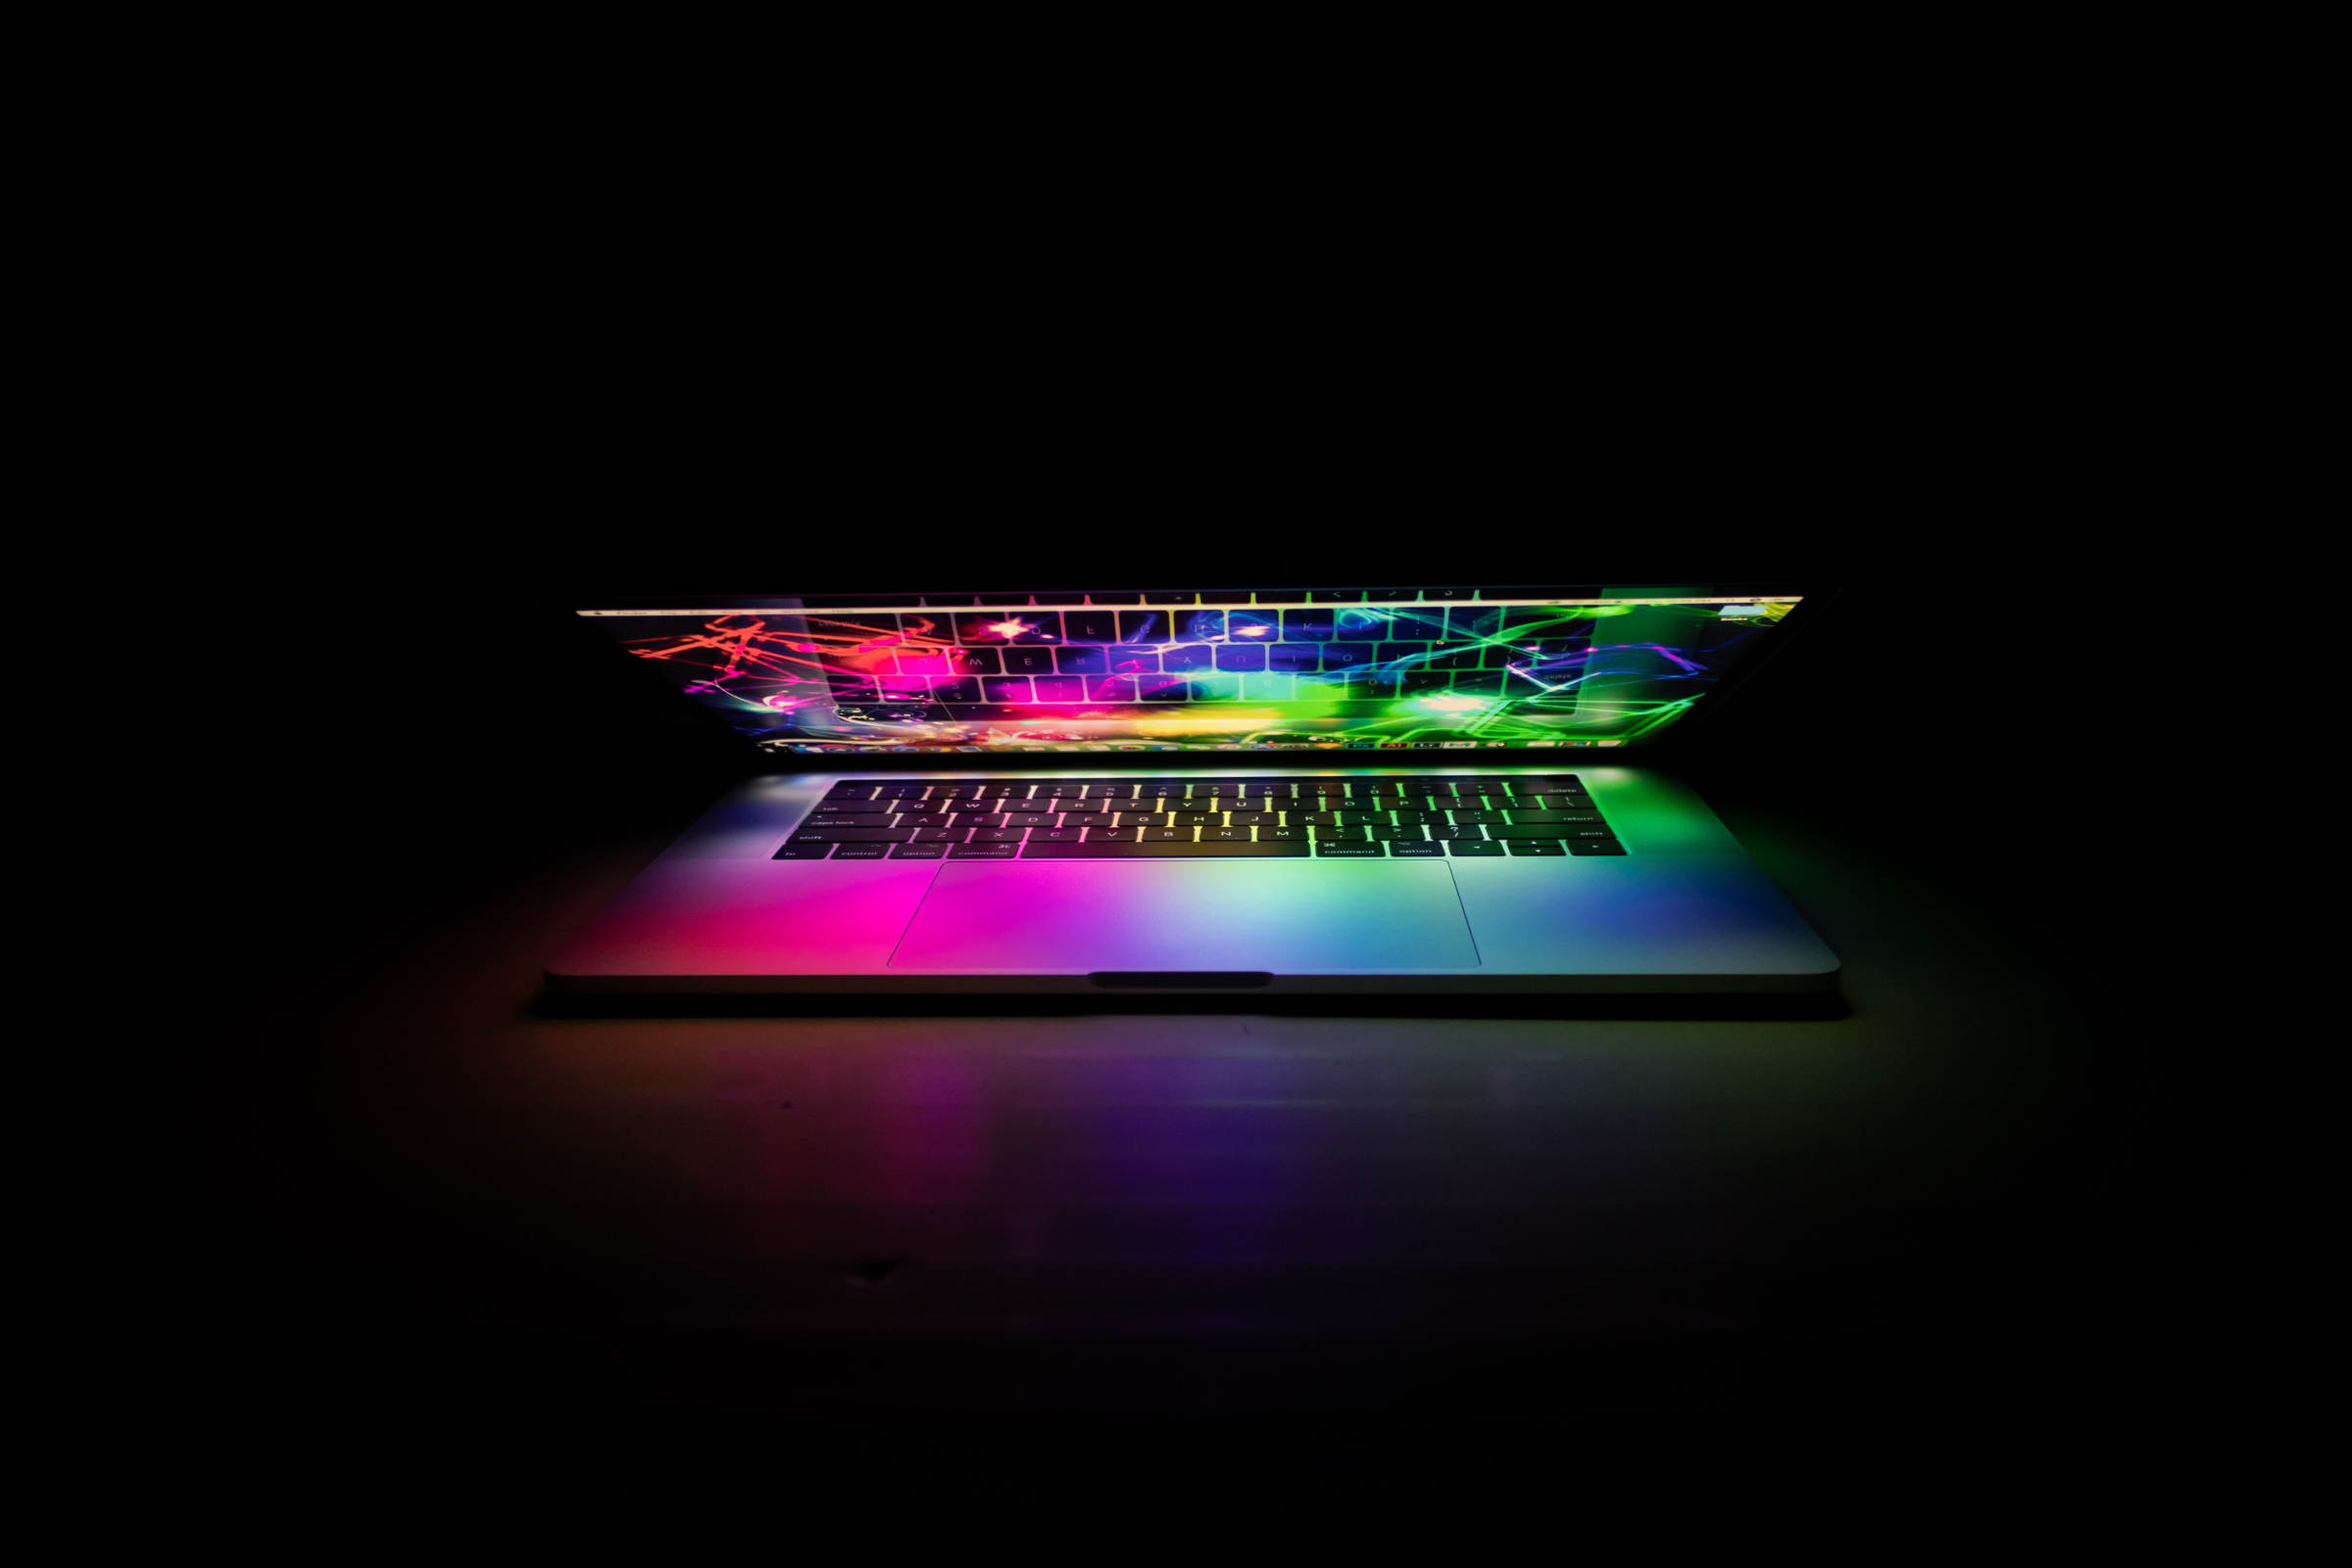
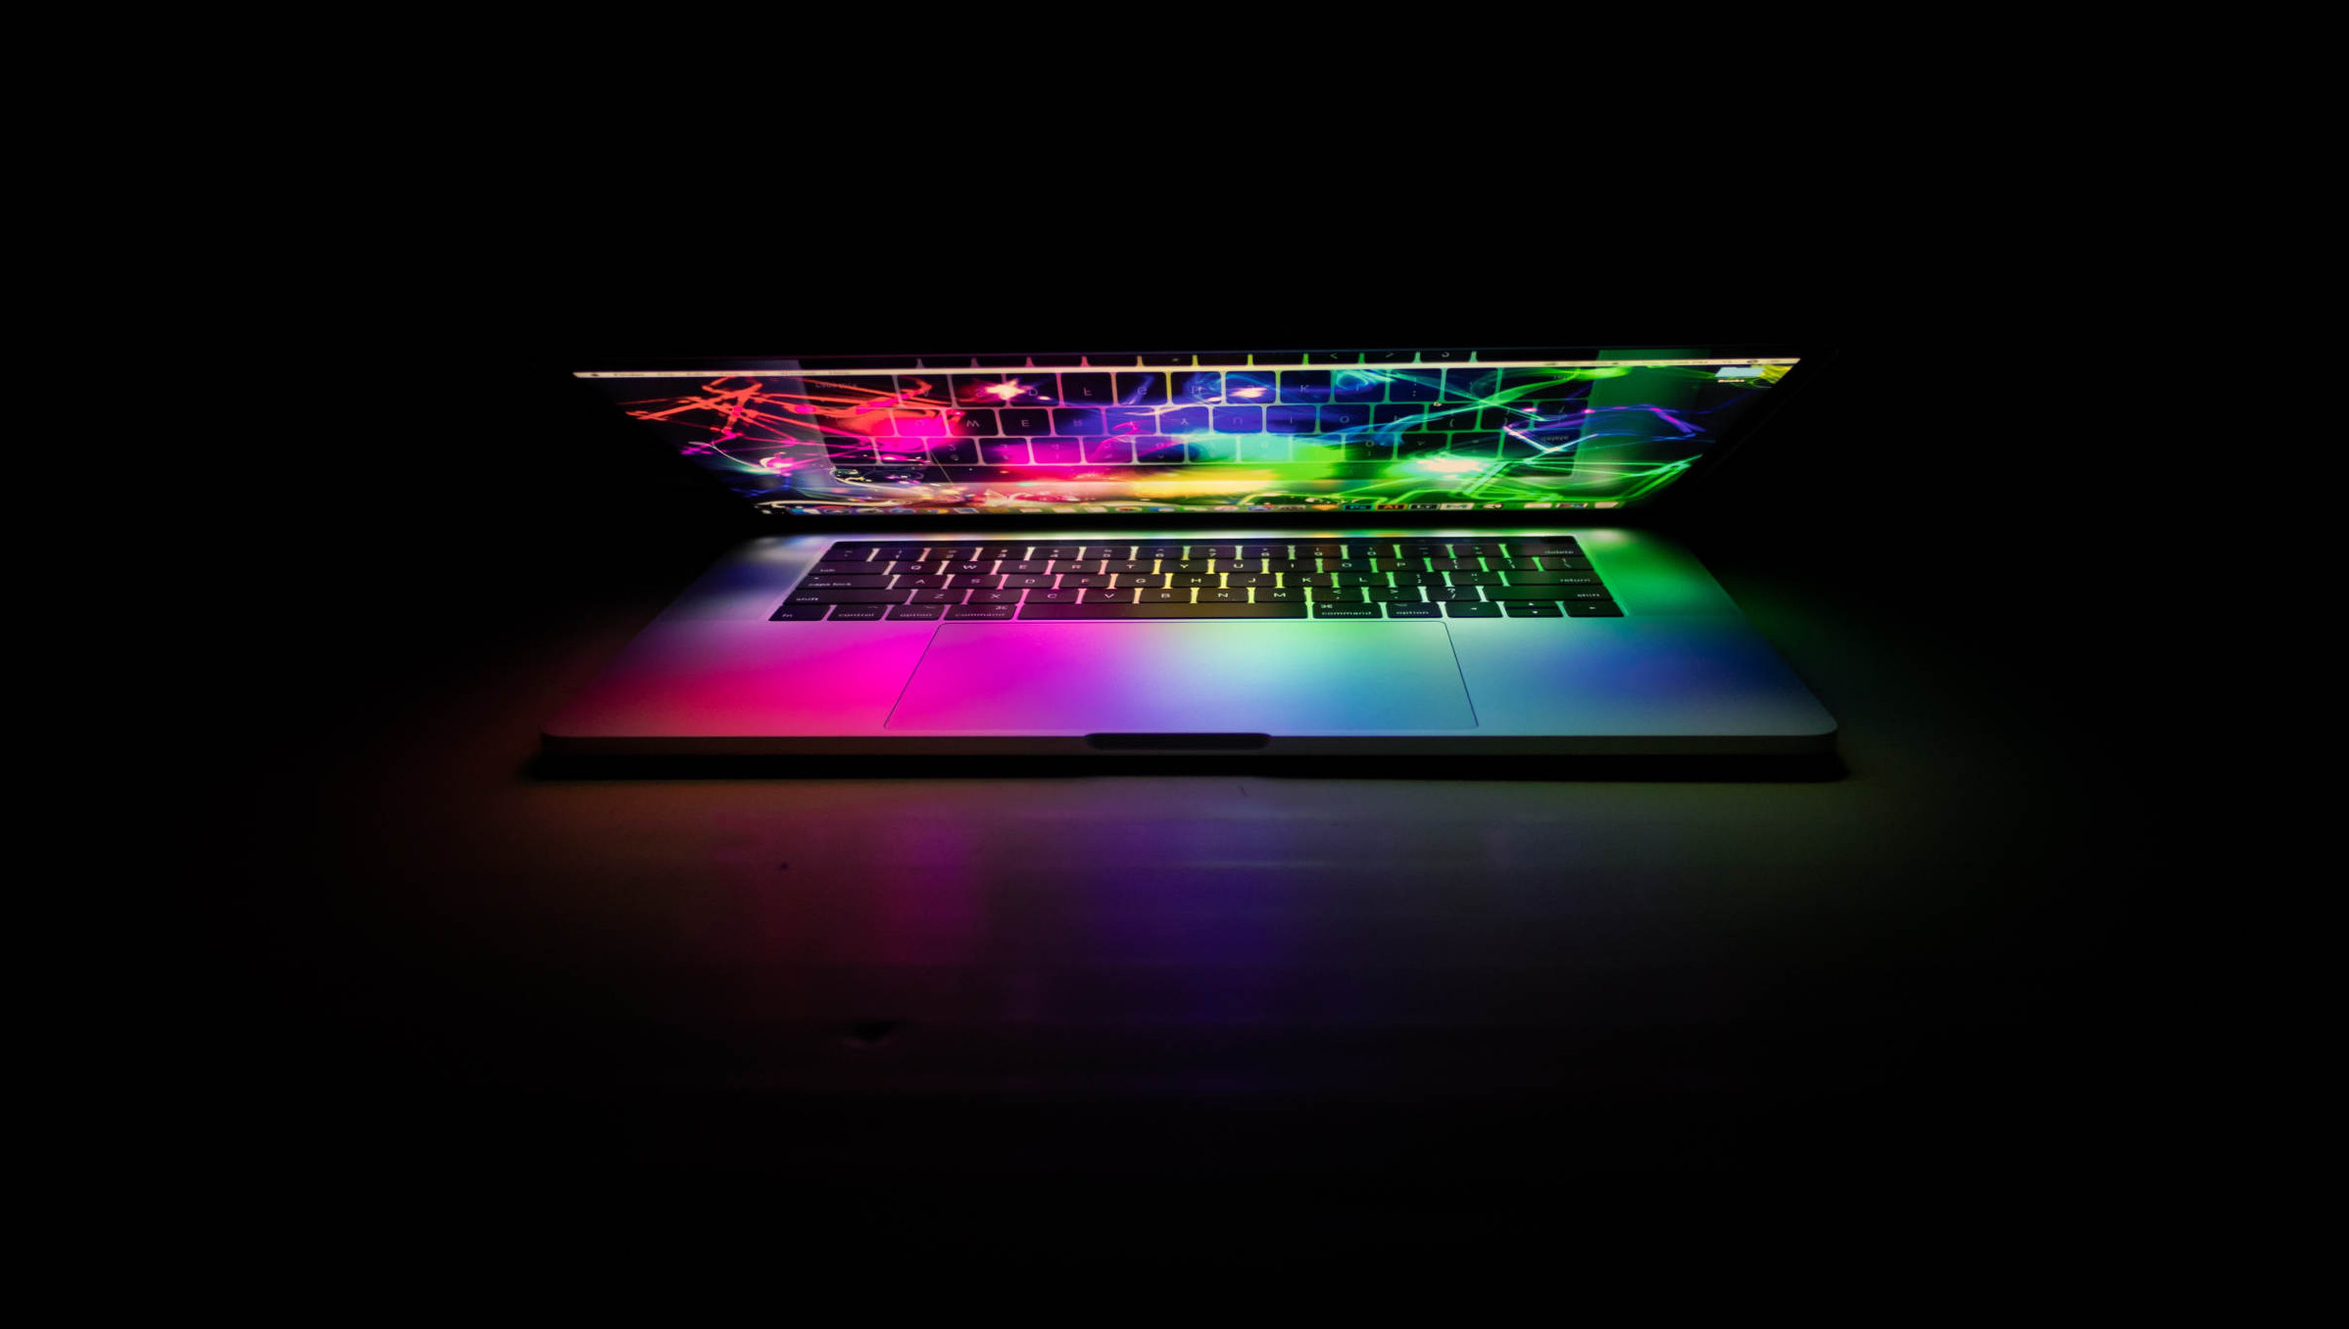
Created header, form

Changed region(s): [[0.1852, 0.2476, 0.8027, 0.8047]]

diff --git a/index.html b/index.html
@@ -4,20 +4,43 @@
     <meta charset="UTF-8">
     <meta name="viewport" content="width=device-width, initial-scale=1.0">
     <meta http-equiv="X-UA-Compatible" content="ie=edge">
-    <link rel="stylesheet" href="bulma.css">
+    <link rel="stylesheet" href="https://use.fontawesome.com/releases/v5.1.0/css/all.css" integrity="sha384-lKuwvrZot6UHsBSfcMvOkWwlCMgc0TaWr+30HWe3a4ltaBwTZhyTEggF5tJv8tbt" crossorigin="anonymous">
     <link rel="stylesheet" href="styles.css">
     <title>Landing Page</title>
 </head>
 <body>
-   <section class="hero is-fullheight">
-
-   </section> 
-   <footer>
-        <a href="https://bulma.io">
-            <img src="made-with-bulma.png" alt="Made with Bulma" width="128" height="24">
-        </a>
-    <p>Photo by <a style="background-color:black;color:white;text-decoration:none;padding:4px 6px;font-family:-apple-system, BlinkMacSystemFont, &quot;San Francisco&quot;, &quot;Helvetica Neue&quot;, Helvetica, Ubuntu, Roboto, Noto, &quot;Segoe UI&quot;, Arial, sans-serif;font-size:12px;font-weight:bold;line-height:1.2;display:inline-block;border-radius:3px" href="https://unsplash.com/@dhaval?utm_medium=referral&amp;utm_campaign=photographer-credit&amp;utm_content=creditBadge" target="_blank" rel="noopener noreferrer" title="Download free do whatever you want high-resolution photos from Dhaval Parmar"><span style="display:inline-block;padding:2px 3px"><svg xmlns="http://www.w3.org/2000/svg" style="height:12px;width:auto;position:relative;vertical-align:middle;top:-1px;fill:white" viewBox="0 0 32 32"><title>unsplash-logo</title><path d="M20.8 18.1c0 2.7-2.2 4.8-4.8 4.8s-4.8-2.1-4.8-4.8c0-2.7 2.2-4.8 4.8-4.8 2.7.1 4.8 2.2 4.8 4.8zm11.2-7.4v14.9c0 2.3-1.9 4.3-4.3 4.3h-23.4c-2.4 0-4.3-1.9-4.3-4.3v-15c0-2.3 1.9-4.3 4.3-4.3h3.7l.8-2.3c.4-1.1 1.7-2 2.9-2h8.6c1.2 0 2.5.9 2.9 2l.8 2.4h3.7c2.4 0 4.3 1.9 4.3 4.3zm-8.6 7.5c0-4.1-3.3-7.5-7.5-7.5-4.1 0-7.5 3.4-7.5 7.5s3.3 7.5 7.5 7.5c4.2-.1 7.5-3.4 7.5-7.5z"></path></svg></span><span style="display:inline-block;padding:2px 3px">Dhaval Parmar</span></a></p>
-   </footer>
-   <script src="https://cdn.freecodecamp.org/testable-projects-fcc/v1/bundle.js"></script>
+    <header id="header">
+        <nav id="nav-bar">
+            <span id="navbar-toggle">
+                <i class="fa fa-bars"></i>
+            </span>
+            <a href="#"><img id="header-img" src="http://sp-nautika-rent-a-boat.hr/freecodecamp/logo.png" class="left" height="70" alt="brand logo"></a>
+            <ul id="main-nav">
+                <li><a class="nav-link" href="#header">Home</a></li>
+                <li><a class="nav-link" href="#info">Info</a></li>
+                <li><a class="nav-link" href="#contact">Contact</a></li>
+            </ul>
+        </nav>
+    </header>
+    <section id="info">
+            <video id="video" width="320" height="240" controls>
+                <source src="movie.mp4" type="video/mp4">
+                <source src="movie.ogg" type="video/ogg">
+                Your browser does not support the video tag.
+            </video>
+    </section>
+    <section id="contact">
+        <form id="form" action="https://www.freecodecamp.com/email-submit">
+            <div class="input-add-on">
+                <input id="email" class="input-add-on_field" type="email" name="email" placeholder="Enter your email...">
+                <input id="submit" class="input-add-on_item" type="submit" name="submit">
+            </div>
+        </form>
+        <footer>
+            <p>Copyright 2018, Bogus Laptops - by Marko Koron</p>
+        </footer>
+    </section>
+    <script src="scripts.js"></script>
+    <script src="https://gitcdn.link/repo/freeCodeCamp/testable-projects-fcc/master/build/bundle.js"></script>   
 </body>
 </html>

diff --git a/styles.css b/styles.css
@@ -1,3 +1,156 @@
-.hero {
-    background: black url('laptop.jpg') center / cover;
+* {
+    box-sizing: border-box;
+    margin: 0;
+    padding: 0;
 }
+
+body {
+    background-color: black;
+    color: wheat;
+}
+
+#header {
+    background-image: url('laptop.jpg');
+    background-position: center center;
+    background-repeat:  no-repeat;
+    background-size:  cover;
+    background-color: black;
+    height: 100vh;
+    width: 100%;
+}
+
+.left {
+    justify-content: flex-start;
+}
+
+#header-img {
+    display: inline-block;
+    margin-top: .3em;
+    margin-left: .5em; 
+}
+
+#main-nav {
+    text-align: center;
+    display: none;
+    flex-direction: column;  
+}
+
+#main-nav li {
+    list-style-type: none;
+    text-align: center;
+    margin: .3em auto;
+}
+
+#nav-bar {
+    position: fixed;
+    width: 100%;
+    background-image: linear-gradient(90deg, rgba(109, 36, 91, .25) 0%, rgba(1, 92, 50, .32) 100%);
+}
+
+.nav-link, #header-img {
+    text-decoration: none;
+    color: rgba(255,255,255,0.8);
+}
+
+#navbar-toggle {
+    position: absolute;
+    top: 10px;
+    right: 20px;
+    cursor: pointer; 
+    color: rgba(255,255,255,0.8);
+    font-size: 2em;
+  }
+  
+  #navbar-toggle:hover {
+    color: rgba(255, 255, 255, 1);
+  }
+
+#form {
+    width: 60%;
+    min-height: 50px;
+    height: auto;
+    border-radius: 5px;
+    margin: 2% auto;
+    padding: 2%;
+    background-image: linear-gradient(-225deg, rgba(255, 64, 208, .7) 50%, rgba(8, 251, 139, .7) 50%);
+}
+
+  .input-add-on {
+    display: flex;
+    justify-content: center;
+    margin: 0 auto;
+    width: 3em;
+  }
+  
+  .input-add-on_field {
+    flex: 1;
+    /* field styles */
+    width: 240px;
+    height: 50px;
+  
+    padding: .3em .7em;
+    
+    color: #5E6472;
+  
+    outline: none;
+    border: none;
+  
+    border-radius: 5px 0px 0px 5px;
+  }
+  
+  .input-add-on_item {
+    /* item styles */
+    display: inline-block;
+    color: wheat;
+
+    width: 280px;
+    height: 50px;
+  
+    padding: 0 20px;
+    background-color: #733065;
+    border-radius: 0px 5px 5px 0px;
+    
+    outline: none;
+    border: none;
+  
+    cursor: pointer;
+    text-align: center;
+    
+    letter-spacing: 0.09em;
+  }
+
+  .input-add-on_item:hover {
+    background-color: #933085;
+  }
+
+.input-add-on_field, .input-add-on_item {
+    font-size: 1.2em;
+}
+@media screen and (min-width: 800px) {
+    #nav-bar {
+        display: flex;
+        justify-content: space-between;
+        padding-bottom: 0;
+        height: 5em;
+        align-items: center;
+      }
+      #main-nav {
+        display: flex !important;
+        margin-right: 2.2em;
+        flex-direction: row;
+        justify-content: flex-end;
+      }
+      #main-nav li {
+        margin: 0;
+      }
+      .nav-link {
+        margin-left: 3em;
+      }
+
+      #navbar-toggle {
+         display: none;
+      }
+      #logo:hover, .nav-link:hover {
+        color: rgba(255,255,255,1);
+      }
+  }

diff --git a/scripts.js b/scripts.js
@@ -1,0 +1,14 @@
+let mainNav = document.getElementById('main-nav');
+let navbarToggle = document.getElementById('navbar-toggle');
+
+navbarToggle.addEventListener('click',function(){
+
+    if(this.classList.contains('active')){
+        mainNav.style.display="none";
+        this.classList.remove('active');
+    }
+    else{
+        mainNav.style.display="flex";
+        this.classList.add('active');
+    }
+});
